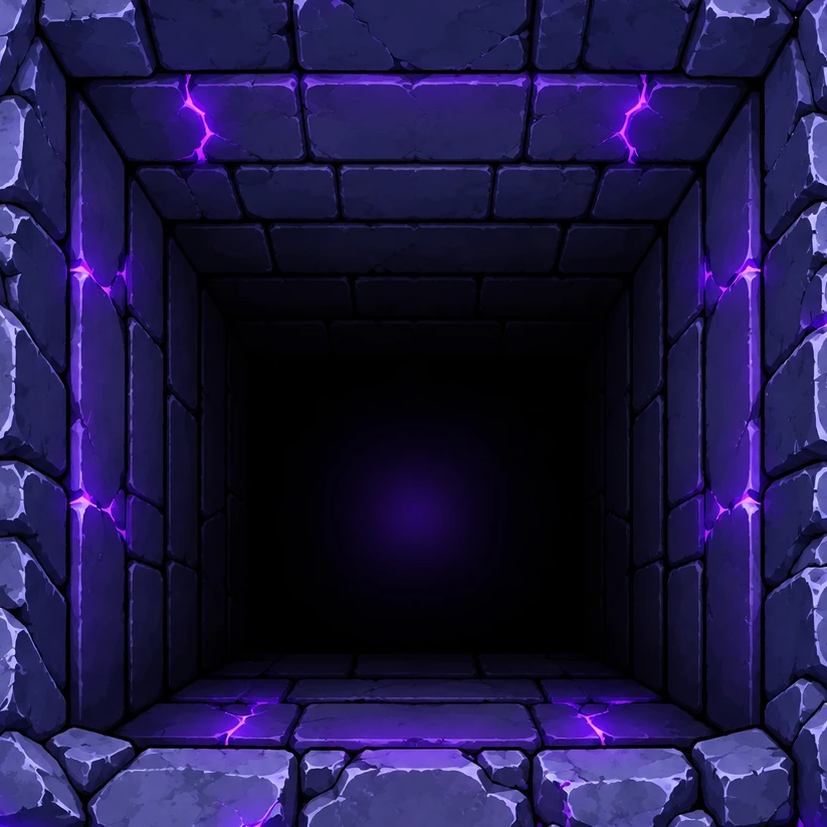
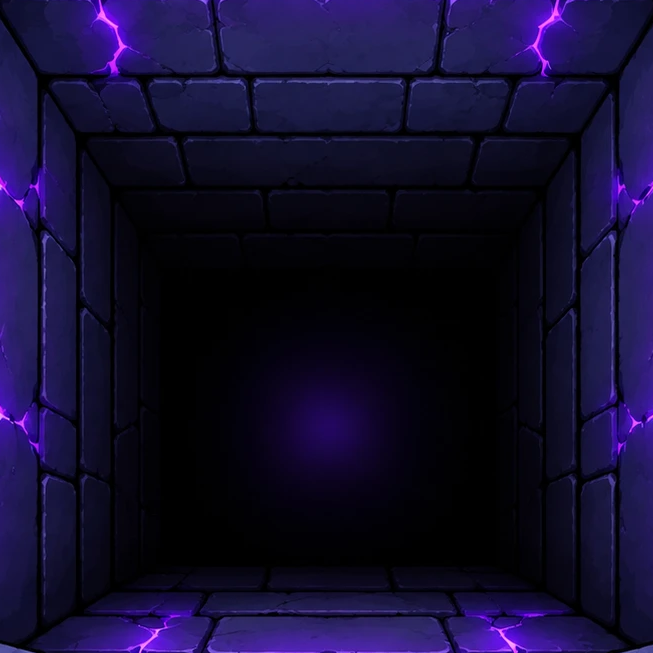
Jeu Spirit : un seul Spirit pendant le passage des portes, murs pleins sans porte, portes encastrées, gouffres où l'on tombe, Clic plus lisible, gargouilles déplacées
Claude-Session: https://claude.ai/code/session_01H9Lthdyi4Yt8UdeFU5WNwb

diff --git a/jeu-spirit/jeu/js/donjon.js b/jeu-spirit/jeu/js/donjon.js
@@ -48,7 +48,7 @@ SG.DONJON1 = {
       nom: 'La Salle du Bloc',
       plan: [
         '################',
-        '#....oooooo....#',
+        '#..............#',
         '#....o....o....#',
         '#....o.I..o....#',
         '#..............#',
@@ -286,7 +286,9 @@ SG.Clic = class extends SG.Monstre {
     if (this.sonne > 0) { this.sonne -= dt; this.contact(jeu); return; }
     const s = jeu.spirit;
     if (!this.charge) {
-      if (Math.abs(s.x - this.x) < 30 || Math.abs(s.y - this.y) < 30) {
+      this.repos = Math.max(0, (this.repos || 0) - dt);
+      const loin = Math.hypot(s.x - this.x, s.y - this.y);
+      if (this.repos <= 0 && loin < 420 && (Math.abs(s.x - this.x) < 26 || Math.abs(s.y - this.y) < 26)) {
         this.dir = SG.dirDepuis(s.x - this.x, s.y - this.y);
         this.charge = true; SG.Son.effet('lance');
       } else {
@@ -296,8 +298,8 @@ SG.Clic = class extends SG.Monstre {
       }
     } else {
       const d = SG.DIRS[this.dir];
-      const v = jeu.mode === 'decouverte' ? 380 : 520;
-      if (SG.deplacer(jeu, this, d.x * v * dt, d.y * v * dt)) { this.charge = false; this.sonne = 0.7; }
+      const v = jeu.mode === 'decouverte' ? 300 : 400;
+      if (SG.deplacer(jeu, this, d.x * v * dt, d.y * v * dt)) { this.charge = false; this.sonne = 1.0; this.repos = 1.4; }
     }
     this.contact(jeu);
   }
@@ -502,6 +504,7 @@ Object.assign(SG.Jeu.prototype, {
     this.coupes = new Set();
     this.effets = []; this.projectiles = []; this.butins = []; this.monstres = []; this.pnj = [];
     this.pousse = 0;
+    this.entreeSalle = null;
     // blocs mobiles : position de départ, ou sur la plaque si l'énigme est résolue
     this.blocs = [];
     S.plan.forEach((ligne, r) => [...ligne].forEach((ch, c) => { if (ch === 'B') this.blocs.push({ c, r, anim: 0, dc: 0, dr: 0 }); }));
@@ -614,6 +617,20 @@ Object.assign(SG.Jeu.prototype, {
   // mise à jour propre au donjon, appelée à chaque image de jeu
   majDonjon(dt, C) {
     const S = this.salle(), k = this.salleCle(), D = this.etatDonjon(), s = this.spirit;
+    if (!this.entreeSalle) this.entreeSalle = { x: s.x, y: s.y };
+    if (s.chute > 0) {
+      s.chute -= dt;
+      if (s.chute <= 0) {
+        s.chute = 0;
+        s.x = this.entreeSalle.x; s.y = this.entreeSalle.y; s.invincible = 1.2;
+        this.perdreVie(this.degats(2));
+      }
+      return;
+    }
+    if (!s.recul || true) {
+      const cc = Math.floor(s.x / SG.T), rr = Math.floor((s.y - 10) / SG.T);
+      if (this.caseSalle(cc, rr) === 'v') { s.chute = 0.7; s.attaque = 0; s.recul = null; SG.Son.effet('fin'); return; }
+    }
     if (this.bossDialogue) { this.bossDialogue = false; this.dialogue(SG.TEXTES.donjon.bossDebut); return; }
     if (S.combat && this.sallePleine && this.monstres.length === 0 && !D.resolues.includes(k)) this.resoudre(k);
     // plaque sous les pieds
@@ -722,6 +739,13 @@ Object.assign(SG.Jeu.prototype, {
     if (im && im.width) {
       // l'image est calée pour que son sol corresponde exactement à la grille de la salle (cases 1 à 14, lignes 1 à 7)
       ctx.drawImage(im, -42, -41, 1365, 811);
+      // les ouvertures sans porte sont murées avec un morceau du mur voisin
+      const ouv = { haut: [560, 0, 160, 82, 360, 0], bas: [560, 638, 160, 82, 360, 638], gauche: [0, 312, 82, 96, 0, 152], droite: [1198, 312, 82, 96, 1198, 152] };
+      for (const dir in ouv) {
+        if (this.porteVers(dir)) continue;
+        const [x, y, w, h, sx, sy] = ouv[dir];
+        ctx.drawImage(cv, sx * k, sy * k, w * k, h * k, x, y, w, h);
+      }
     } else {
       // dalles sombres veinées de violet
       const alea = SG.graine(cle.length * 31 + cle.charCodeAt(3) * 7 + cle.charCodeAt(5));
@@ -758,8 +782,13 @@ Object.assign(SG.Jeu.prototype, {
           c0 = Math.min(c0, x); c1 = Math.max(c1, x); r0 = Math.min(r0, y); r1 = Math.max(r1, y);
           pile.push([x + 1, y], [x - 1, y], [x, y + 1], [x, y - 1]);
         }
-        const m = 12;
-        ctx.drawImage(gf, c0 * T - m, r0 * T - m, (c1 - c0 + 1) * T + 2 * m, (r1 - r0 + 1) * T + 2 * m);
+        const gx = c0 * T, gy = r0 * T, gw = (c1 - c0 + 1) * T, gh = (r1 - r0 + 1) * T;
+        ctx.drawImage(gf, gx, gy, gw, gh);
+        // bord supérieur plus sombre : le sol surplombe le trou
+        const og = ctx.createLinearGradient(0, gy, 0, gy + 22);
+        og.addColorStop(0, 'rgba(0,0,0,0.6)'); og.addColorStop(1, 'rgba(0,0,0,0)');
+        ctx.fillStyle = og; ctx.fillRect(gx, gy, gw, 22);
+        ctx.strokeStyle = 'rgba(10,5,20,0.9)'; ctx.lineWidth = 3; ctx.strokeRect(gx + 1, gy + 1, gw - 2, gh - 2);
       }
     }
     // trous et plaques
@@ -904,8 +933,8 @@ SG.dessinPorte = function (ctx, dir, p, ouverte, volets) {
   if (!p || ouverte) return;
   const T = SG.T;
   // la porte couvre toute l'ouverture du mur, épaisseur comprise
-  const r = dir === 'haut' ? { x: 7 * T + 4, y: -6, w: 2 * T - 8, h: T + 14 } : dir === 'bas' ? { x: 7 * T + 4, y: SG.H - T - 8, w: 2 * T - 8, h: T + 14 }
-    : dir === 'gauche' ? { x: -6, y: 4 * T - 8, w: T + 14, h: T + 16 } : { x: SG.W - T - 8, y: 4 * T - 8, w: T + 14, h: T + 16 };
+  const r = dir === 'haut' ? { x: 566, y: 4, w: 148, h: 74 } : dir === 'bas' ? { x: 566, y: 642, w: 148, h: 74 }
+    : dir === 'gauche' ? { x: 4, y: 318, w: 74, h: 84 } : { x: 1202, y: 318, w: 74, h: 84 };
   const type = p.type;
   const t = performance.now() / 1000;
   ctx.save();

diff --git a/jeu-spirit/jeu/js/jeu.js b/jeu-spirit/jeu/js/jeu.js
@@ -167,7 +167,7 @@ SG.Jeu = class {
           ch = this.caseEn(SG.clamp(c, 0, SG.COLS - 1), SG.clamp(r, 0, SG.ROWS - 1));
           if (!estSpirit) return true;
         }
-        if (ch === 'v' && entite && entite.vole) continue;
+        if (ch === 'v' && entite && (entite.vole || entite === this.spirit)) continue;
         if ((this.estDonjon() ? SG.CASES_SALLE_PLEINES : SG.CASES_PLEINES).has(ch)) return true;
       }
     }
@@ -338,7 +338,9 @@ SG.Jeu = class {
     c.width = this.canevas.width; c.height = Math.round(SG.H * this.echelle);
     const x = c.getContext('2d');
     x.setTransform(this.echelle, 0, 0, this.echelle, 0, 0);
+    this.cacherSpirit = true;
     this.dessinerScene(x);
+    this.cacherSpirit = false;
     return c;
   }
 
@@ -346,6 +348,7 @@ SG.Jeu = class {
     const cle = this.voisin(dir);
     const avant = this.capturer();
     const s = this.spirit;
+    const depart = { x: s.x, y: s.y };
     // dans un donjon, on entre d'une case pour ne pas rester dans l'encadrement de la porte
     const m = this.estDonjon(cle) ? SG.T + 6 : 0;
     if (dir === 'gauche') s.x = SG.W - s.pw / 2 - 2 - m;
@@ -355,7 +358,7 @@ SG.Jeu = class {
     s.recul = null;
     this.entrerEcran(cle);
     const apres = this.capturer();
-    this.transition = { type: 'glisse', dir, avant, apres, t: 0, duree: 0.55 };
+    this.transition = { type: 'glisse', dir, avant, apres, t: 0, duree: 0.55, depart, arrivee: { x: s.x, y: s.y } };
     this.etat = 'transition';
   }
 
@@ -640,6 +643,13 @@ SG.Jeu = class {
       const d = SG.DIRS[tr.dir];
       ctx.drawImage(tr.avant, -d.x * SG.W * e, -d.y * SG.H * e, SG.W, SG.H);
       ctx.drawImage(tr.apres, d.x * SG.W * (1 - e), d.y * SG.H * (1 - e), SG.W, SG.H);
+      // Spirit traverse d'un écran à l'autre
+      const s = this.spirit, x0 = s.x, y0 = s.y;
+      const ax = tr.depart.x - d.x * SG.W * e, ay = tr.depart.y - d.y * SG.H * e;
+      const bx = tr.arrivee.x + d.x * SG.W * (1 - e), by = tr.arrivee.y + d.y * SG.H * (1 - e);
+      s.x = SG.lerp(ax, bx, u); s.y = SG.lerp(ay, by, u); s.bouge = true; s.tempsMarche += 1 / 60;
+      s.dessiner(ctx);
+      s.x = x0; s.y = y0;
       ctx.restore();
       this.dessinerHUD(ctx);
       return;
@@ -685,7 +695,7 @@ SG.Jeu = class {
       liste.push({ y: m.y, dessiner: (c) => { c.save(); c.filter = 'drop-shadow(0 0 2px rgba(255,255,255,0.95)) drop-shadow(0 0 7px rgba(255,210,90,0.7))'; m.dessiner(c); c.restore(); } });
     }
     for (const p of this.pnj) liste.push(p);
-    if (this.spirit) liste.push(this.spirit);
+    if (this.spirit && !this.cacherSpirit) liste.push(this.spirit);
     liste.sort((a, b) => a.y - b.y);
     for (const o of liste) o.dessiner(ctx);
     if (this.estDonjon()) this.dessinerFlammes(ctx);
@@ -701,7 +711,7 @@ SG.Jeu = class {
     ctx.save();
     ctx.globalAlpha = 0.38;
     for (const m of this.monstres) if (!m.apparition || m.apparition <= 0) m.dessiner(ctx);
-    if (this.spirit) { ctx.globalAlpha = 0.5; this.spirit.dessiner(ctx); }
+    if (this.spirit && !this.cacherSpirit && !this.estDonjon()) { ctx.globalAlpha = 0.5; this.spirit.dessiner(ctx); }
     ctx.restore();
     for (const p of this.projectiles) p.dessiner(ctx);
     for (const e of this.effets) e.dessiner(ctx);

diff --git a/jeu-spirit/jeu/js/entites.js b/jeu-spirit/jeu/js/entites.js
@@ -46,6 +46,7 @@ SG.Spirit = class {
 
   maj(jeu, dt) {
     const C = SG.Commandes;
+    if (this.chute > 0) return;
     this.invincible = Math.max(0, this.invincible - dt);
     this.recharge = Math.max(0, this.recharge - dt);
     if (this.recul) {
@@ -82,7 +83,7 @@ SG.Spirit = class {
     this.recharge = 0.34;
     const d = SG.DIRS[this.dir];
     // zone touchée par l'onde proche
-    const portee = 100, largeur = 110;
+    const portee = 125, largeur = 135;
     const cx = this.x + d.x * 60, cy = this.y - 36 + d.y * 60;
     const zone = d.x
       ? { x: cx - portee / 2, y: cy - largeur / 2, w: portee, h: largeur }
@@ -127,6 +128,14 @@ SG.Spirit = class {
     const pas = Math.floor(this.tempsMarche * 8) % 4;
     const saut = this.bouge && pas % 2 === 1 ? -3 : 0;
     SG.ombre(ctx, this.x, this.y, 26);
+    if (this.chute > 0) {
+      // il tombe dans le gouffre : il rapetisse en tournant
+      const u = this.chute / 0.7;
+      ctx.save(); ctx.translate(this.x, this.y - 30); ctx.rotate((1 - u) * 5);
+      SG.dessinerPied(ctx, SG.img['spirit-face'], 0, 30 * u, { echelle: u });
+      ctx.restore();
+      return;
+    }
     SG.dessinerPied(ctx, this.image(), this.x, this.y + saut, { retourne: this.dir === 'gauche' && !this.brandit });
   }
 };
@@ -212,7 +221,7 @@ SG.Monstre = class {
   toucher(jeu, degats, sx, sy) {
     if (this.flash > 0 || this.apparition > 0) return false;
     this.pv -= degats;
-    this.flash = 0.3;
+    this.flash = 0.16;
     let dx = this.x - sx, dy = this.y - sy;
     const d = Math.hypot(dx, dy) || 1;
     this.recul = { vx: dx / d * 480, vy: dy / d * 480, t: 0.14 };
